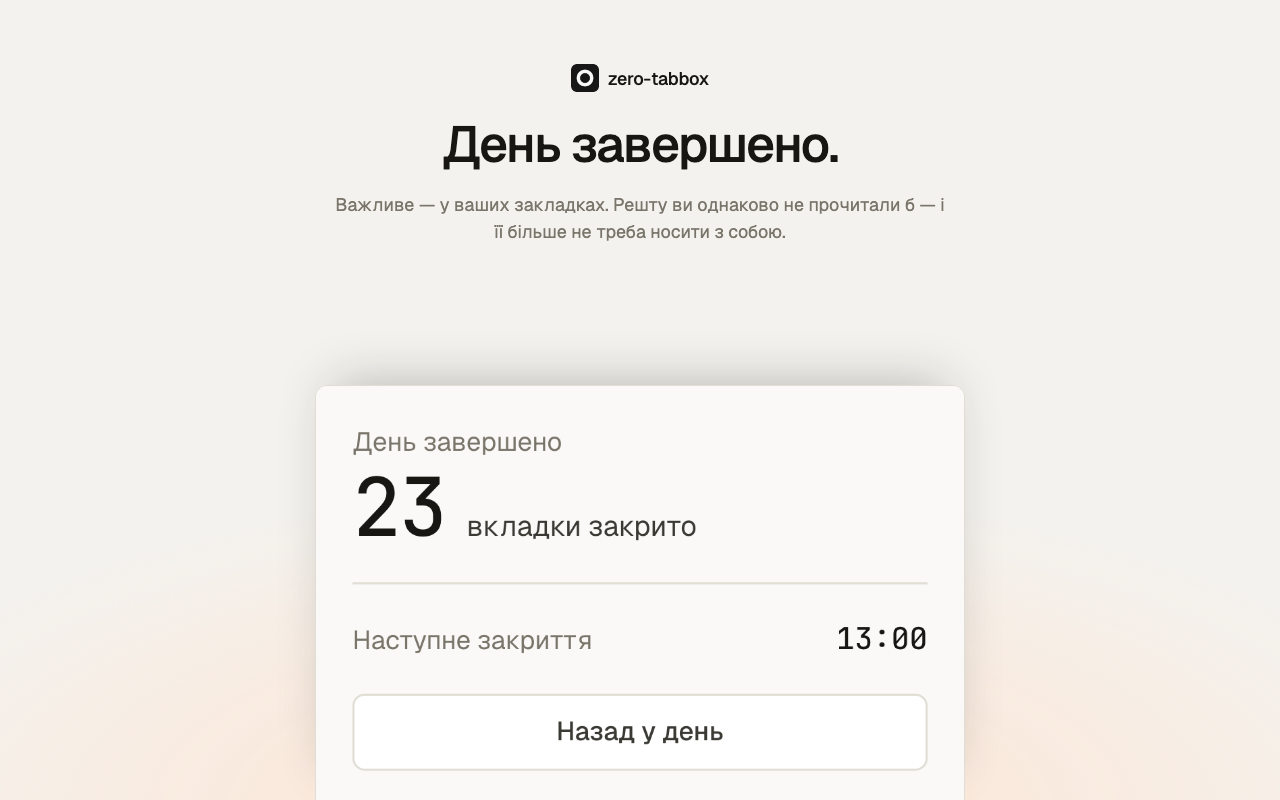
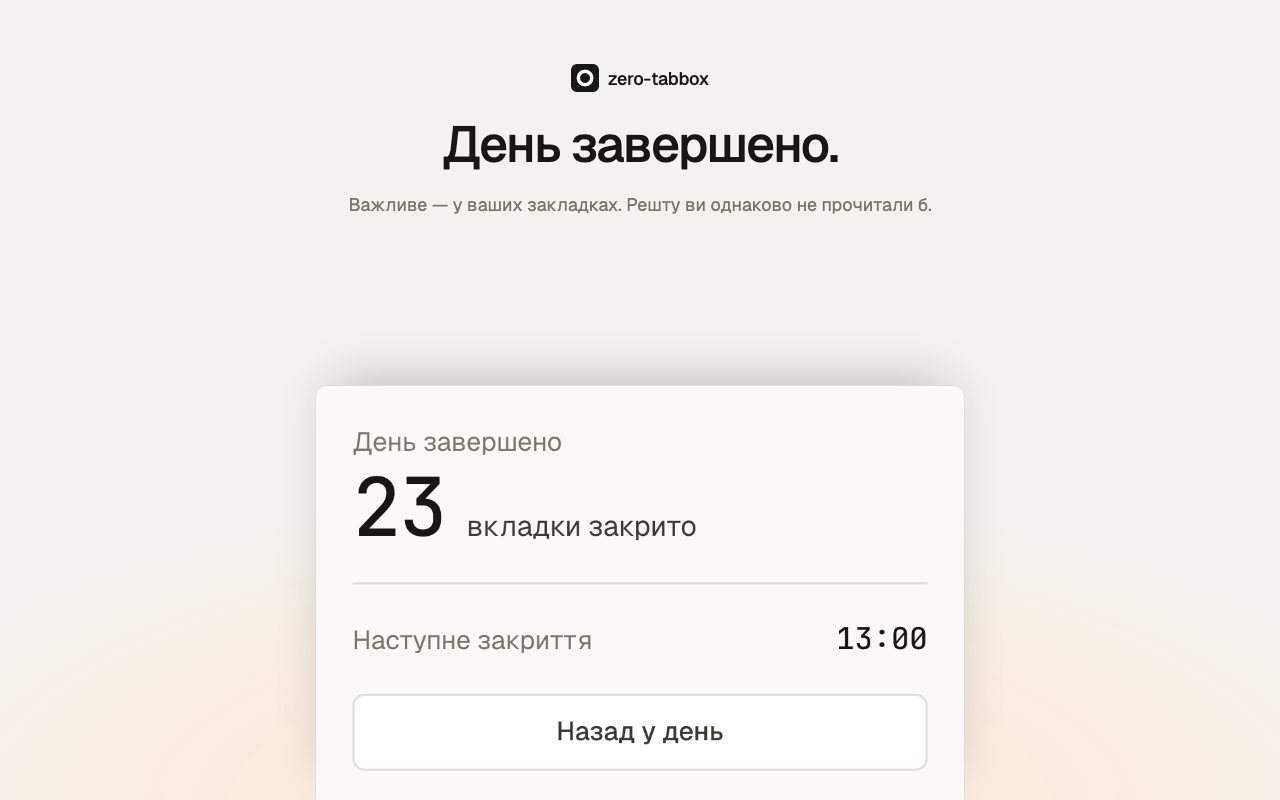
Drop the carried-clause from the day-ended caption in both languages
"і її більше не треба носити з собою" read oddly in Ukrainian, and the
sentence stands better without the metaphor in English too. Trimmed on
the 04 frame and in both AMO caption tables; only the 04 images are
re-committed — the 01/05 byte churn from the live countdown is reverted
per the README's regeneration policy.

Claude-Session: https://claude.ai/code/session_01WAUht7H3ewb9gHFV21ocF2

Changed region(s): [[0.25, 0.25, 0.75, 0.3125]]

diff --git a/store/README.md b/store/README.md
@@ -88,7 +88,7 @@ and at the top of the listing.
 | 1 | `01-popup-live.png` | The popup: how many tabs are at risk, the next cutoff, the countdown, both actions | An open tab is an unfinished decision. This is what is at stake, and how long you have. |
 | 2 | `02-onboarding.png` | The install-time contract | Nothing is scheduled until you accept these terms. |
 | 3 | `03-options.png` | Every setting there is, including the interface language | A deadline is what lets the mind let go — it works because it cannot be negotiated. |
-| 4 | `04-popup-swept.png` | The "Day ended" state | The day ends at zero. What mattered is in your bookmarks; the rest no longer has to be carried. |
+| 4 | `04-popup-swept.png` | The "Day ended" state | The day ends at zero. What mattered is in your bookmarks. |
 | 5 | `05-theme.png` | The popup in light and dark | Follows the system theme. |
 
 Shot 2 does double duty: it is the most distinctive thing the extension has,
@@ -103,7 +103,7 @@ the listing's Ukrainian language tab on Chrome. Its AMO captions:
 | 1 | Відкрита вкладка — незавершене рішення. Ось що на кону і скільки часу лишилося. |
 | 2 | Розклад не запуститься, доки ви не приймете ці умови. |
 | 3 | Дедлайн дає голові відпустити зайве — він працює, бо з ним не домовишся. |
-| 4 | День закінчується на нулі. Важливе — у закладках; решту більше не треба носити з собою. |
+| 4 | День закінчується на нулі. Важливе — у закладках. |
 | 5 | Підлаштовується під тему системи. |
 
 **Not covered:** the pre-cutoff badge countdown and the system notification.
